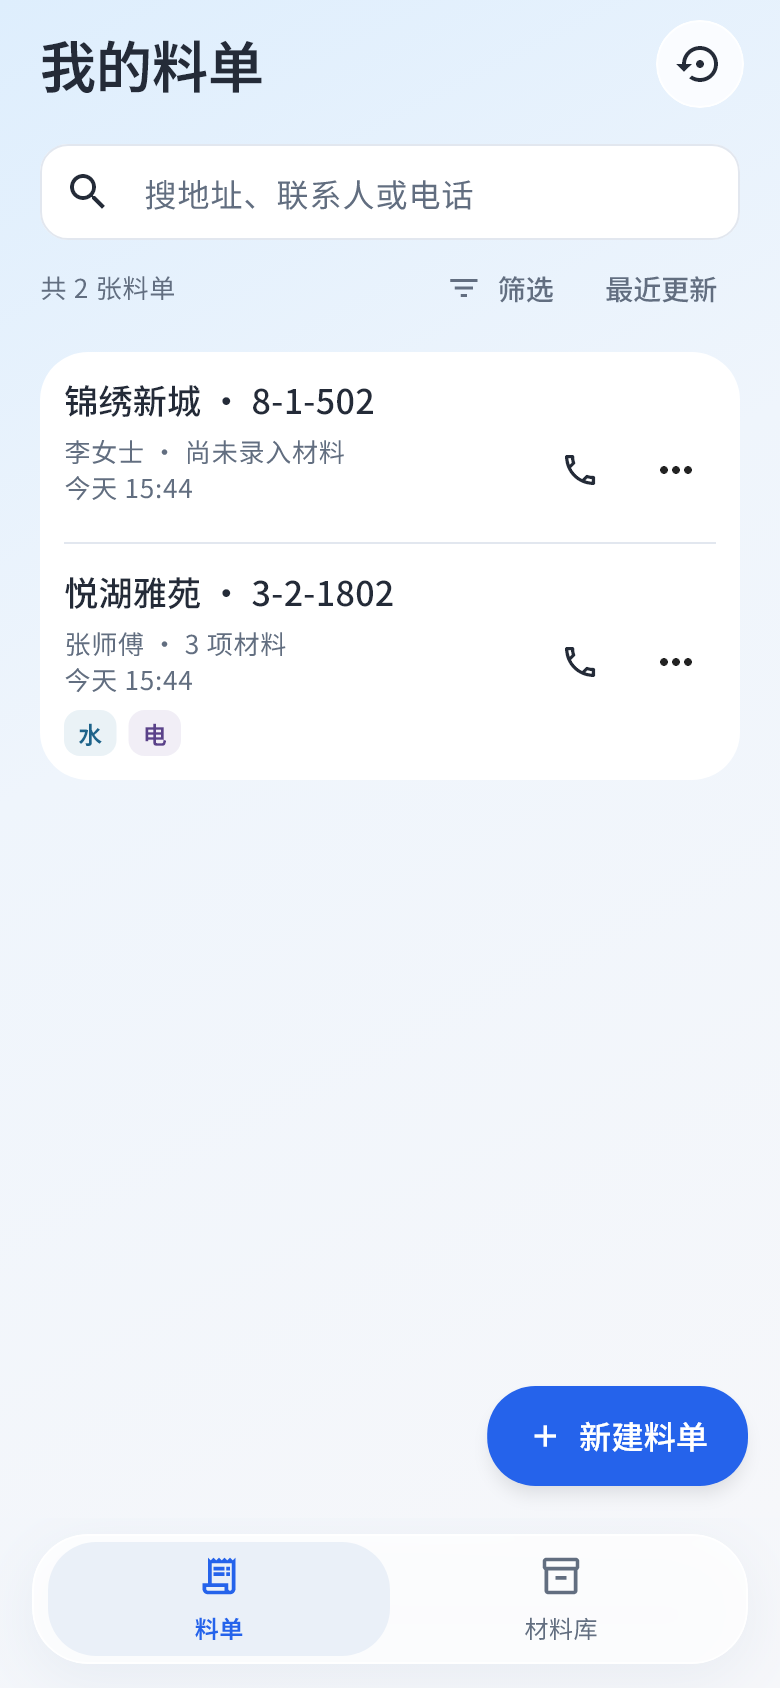
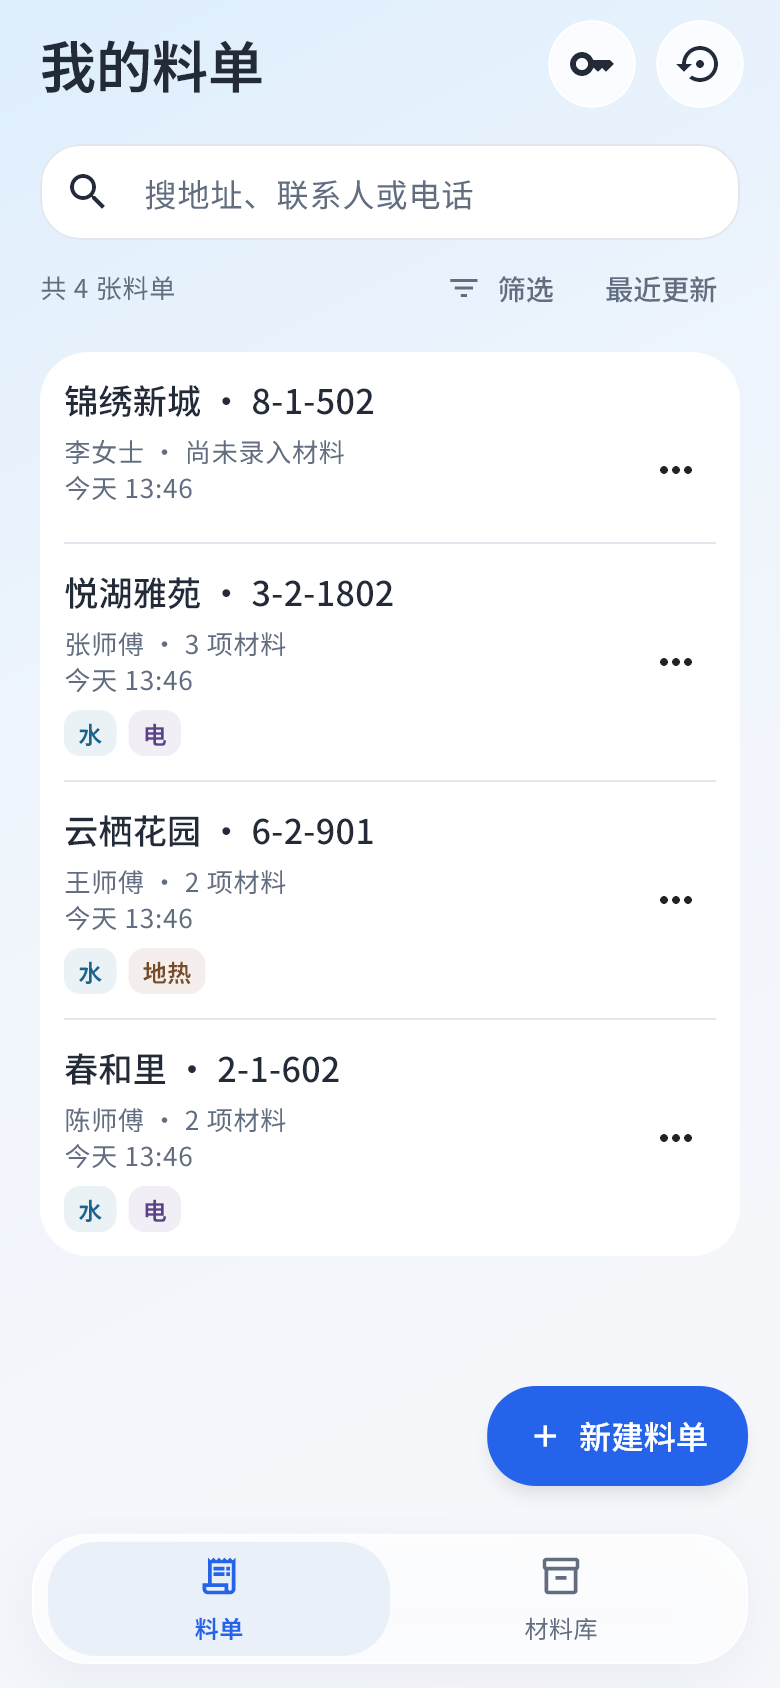
Balance app showcase with status bar and fuller sample list

diff --git a/style.css b/style.css
@@ -161,6 +161,11 @@ h1 { font-size: clamp(42px, 4.7vw, 66px); letter-spacing: -.055em; line-height: 
 .stage-grid { position: absolute; inset: 0; z-index: -1; background-image: linear-gradient(#d5dfec75 1px, transparent 1px), linear-gradient(90deg, #d5dfec75 1px, transparent 1px); background-size: 34px 34px; mask-image: linear-gradient(130deg, #0008, transparent 80%); }
 .stage-caption { position: absolute; top: 22px; right: 22px; font-size: 10px; writing-mode: vertical-rl; letter-spacing: .2em; color: #788ba6; }
 .screenshot-frame { width: 243px; background: #f6f7fa; border: 5px solid #fff; border-radius: 27px; box-shadow: 0 15px 40px #425d8424, 0 0 0 1px #d8e2ef; overflow: hidden; }
+.device-statusbar { display: flex; align-items: center; justify-content: space-between; min-height: 23px; padding: 8px 14px 5px; background: #e2effc; color: var(--ink); font-size: 8px; font-weight: 600; line-height: 1; font-variant-numeric: tabular-nums; }
+.device-status-icons { display: inline-flex; align-items: center; gap: 4px; }
+.device-status-icons svg { width: 10px; height: 8px; stroke-width: 1.4; }
+.device-status-icons .device-battery { width: 14px; }
+.app-stage.pdf-mode .device-statusbar { display: none; }
 .screenshot-frame img { width: 100%; aspect-ratio: 390 / 844; object-fit: cover; }
 .app-stage figcaption { font-size: 10px; color: #6f8097; display: flex; align-items: center; gap: 7px; margin-top: 23px; }
 .app-stage.pdf-mode { justify-content: center; }

diff --git a/index.html b/index.html
@@ -86,7 +86,7 @@
         </div>
         <figure class="app-stage" id="story-panel" role="tabpanel" aria-labelledby="story-tab-home">
           <div class="stage-grid" aria-hidden="true"></div><span class="stage-caption" id="stage-caption">我的料单</span>
-          <div class="screenshot-frame" id="screenshot-frame"><img id="app-screenshot" src="assets/app-home.png" width="780" height="1688" alt="料记 App 料单列表，使用虚构工地与联系人展示" loading="lazy"></div>
+          <div class="screenshot-frame" id="screenshot-frame"><div class="device-statusbar" aria-hidden="true"><span>9:41</span><span class="device-status-icons"><svg viewBox="0 0 12 10"><path d="M1 7h2v2H1zm4-3h2v5H5zm4-3h2v8H9Z" fill="currentColor" stroke="none"/></svg><svg viewBox="0 0 14 10"><path d="M1 3a9 9 0 0 1 12 0M3.5 5.5a5.5 5.5 0 0 1 7 0M6 8a1.5 1.5 0 0 1 2 0"/></svg><svg class="device-battery" viewBox="0 0 17 10"><rect x="1" y="1.5" width="12" height="7" rx="1.5"/><path d="M15 4v2"/><rect x="3" y="3.5" width="8" height="3" rx=".5" fill="currentColor" stroke="none"/></svg></span></div><img id="app-screenshot" src="assets/app-home.png" width="780" height="1688" alt="料记 App 料单列表，使用虚构工地与联系人展示" loading="lazy"></div>
           <figcaption><span class="live-dot" aria-hidden="true"></span> <span id="asset-caption">真实 App 界面 · 演示资料</span></figcaption>
         </figure>
       </div>

diff --git a/README.md b/README.md
@@ -31,7 +31,7 @@ node --check tools/serve.mjs
 
 ## 素材来源与隐私
 
-App 图标与施工线稿直接来自 `liaoji/assets/branding/`，保留原稿。三个 App 页面来自 Flutter 视觉测试产物，只有虚构工地/联系人，没有公开电话号码；非生产客户数据。
+App 图标与施工线稿直接来自 `liaoji/assets/branding/`，保留原稿。三个 App 页面来自 Flutter 视觉测试产物，只有虚构工地/联系人，没有公开电话号码；非生产客户数据。首页使用四张匿名示例料单，避免空列表使展示画面下方留白过多。手机展示顶部的时间、信号与电量为网页示意状态栏，PDF 展示时隐藏。
 
 `assets/app-example.pdf` 使用 App 当前 `PdfService` 导出，输入为匿名工地与演示材料，显式清空联系人电话和施工联系人。`assets/app-pdf.png` 为其渲染图。网页同步预览是 HTML 示例，不代替实际 App 导出文件。
 
